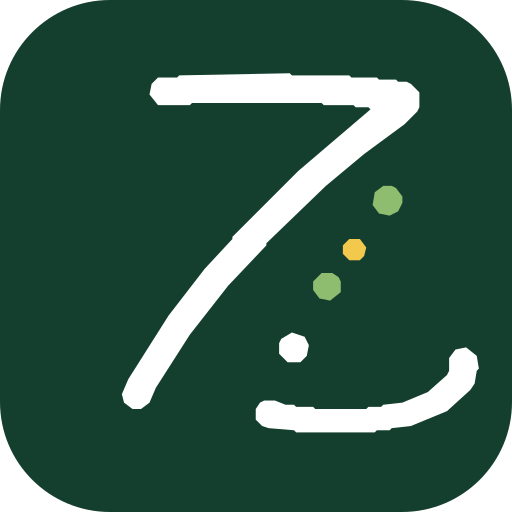
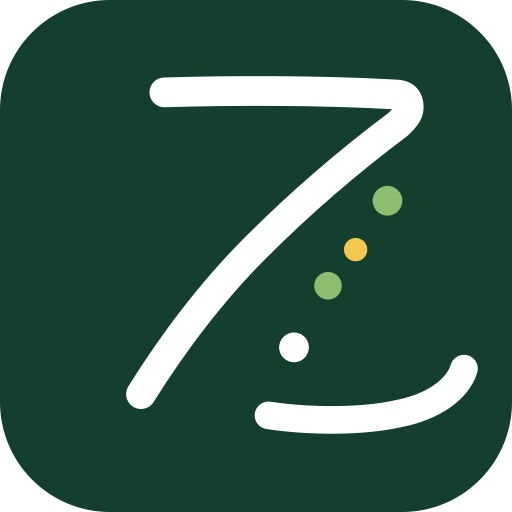
fix(zukan): smooth brand vector geometry

diff --git a/platform_v2/src/brandAssets.test.ts b/platform_v2/src/brandAssets.test.ts
@@ -52,6 +52,24 @@ test("generated ZUKAN raster assets are deterministic PNGs with declared dimensi
   assert.equal(ogp.hasAlpha, false);
 });
 
+test("ZUKAN vector assets keep smooth curves and circular record markers", async () => {
+  const symbol = await readFile(path.join(brandDir, "zukan-symbol.svg"), "utf8");
+  const wordmark = await readFile(path.join(brandDir, "zukan-wordmark.svg"), "utf8");
+  const lockup = await readFile(path.join(brandDir, "zukan-lockup.svg"), "utf8");
+  const appIcon = await readFile(path.join(brandDir, "zukan-app-icon.svg"), "utf8");
+  const maskableIcon = await readFile(path.join(brandDir, "zukan-app-icon-maskable.svg"), "utf8");
+
+  for (const [name, asset] of Object.entries({ symbol, lockup, appIcon, maskableIcon })) {
+    assert.match(asset, /\sC-?\d/, `${name} must use Bezier curves`);
+    assert.match(asset, /stroke-linecap="round"/, `${name} must keep rounded stroke ends`);
+    assert.equal((asset.match(/<circle\b/g) ?? []).length, 4, `${name} must keep four circular records`);
+    assert.doesNotMatch(asset, /M171 23 L169 22/, `${name} must not restore the pixel-traced outline`);
+  }
+
+  assert.match(wordmark, /\sC-?\d/, "wordmark U must keep a smooth bowl");
+  assert.doesNotMatch(wordmark, /M341 27 L340 28/, "wordmark must not restore the pixel-traced outline");
+});
+
 test("manifest, runtime paths, MIME types, ICO payload, and maskable safe zone agree", async () => {
   await execFileAsync(process.execPath, [generator]);
   const manifest = JSON.parse(

diff --git a/upload_package/public_html/assets/brand/README.md b/upload_package/public_html/assets/brand/README.md
@@ -22,6 +22,6 @@ Regenerate the committed raster derivatives deterministically from the SVG sourc
 node platform_v2/scripts/generate-zukan-brand-assets.mjs
 ```
 
-The assets were reconstructed from the adopted source image recorded in `ikimon-business-strategy/decisions/2026-07-28-zukan-logo-source-assets.md`. Do not redraw the symbol or change the four-dot order without updating the strategy decision first.
+The assets were reconstructed from the adopted source image recorded in `ikimon-business-strategy/decisions/2026-07-28-zukan-logo-source-assets.md`. The SVG geometry uses smooth vector curves and true circles; do not replace it with pixel-traced polygon steps. Do not change the symbol concept, colors, or four-dot order without updating the strategy decision first.
 
 Legacy `ikimon-*` files remain available for rollback and compatibility. New current-app references must use the ZUKAN files above.
